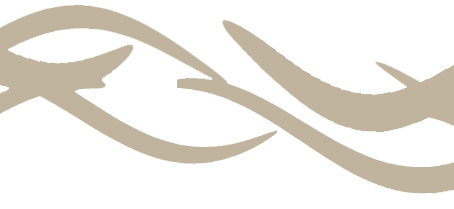
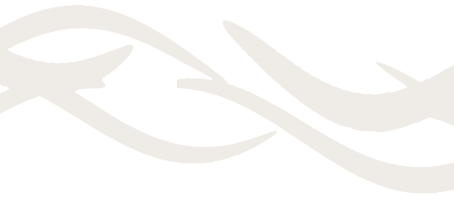
Added new background arrows in the menu and made the menu background a lighter.
git-svn-id: svn://svn.paxle.net/paxle/trunk@2143 f5d3ab42-bacf-4b1a-9692-565be65a0cfe

Changed region(s): [[0.0, 0.0, 1.0, 0.9474], [0.4934, 0.0861, 1.0, 0.6316]]

diff --git a/bundles/GUI/src/main/resources/resources/templates/layout/css/style.css b/bundles/GUI/src/main/resources/resources/templates/layout/css/style.css
@@ -197,6 +197,10 @@ td {
 	border-bottom: dashed 0.05em #444444;
 }
 
+.nav li a {
+	background:url(../images/arrow-menu-left.png) no-repeat left center;
+}
+
 .nav li a:hover, .nav li a.active {
 	background-color: #730002;
 	color: #FFFFFF;
